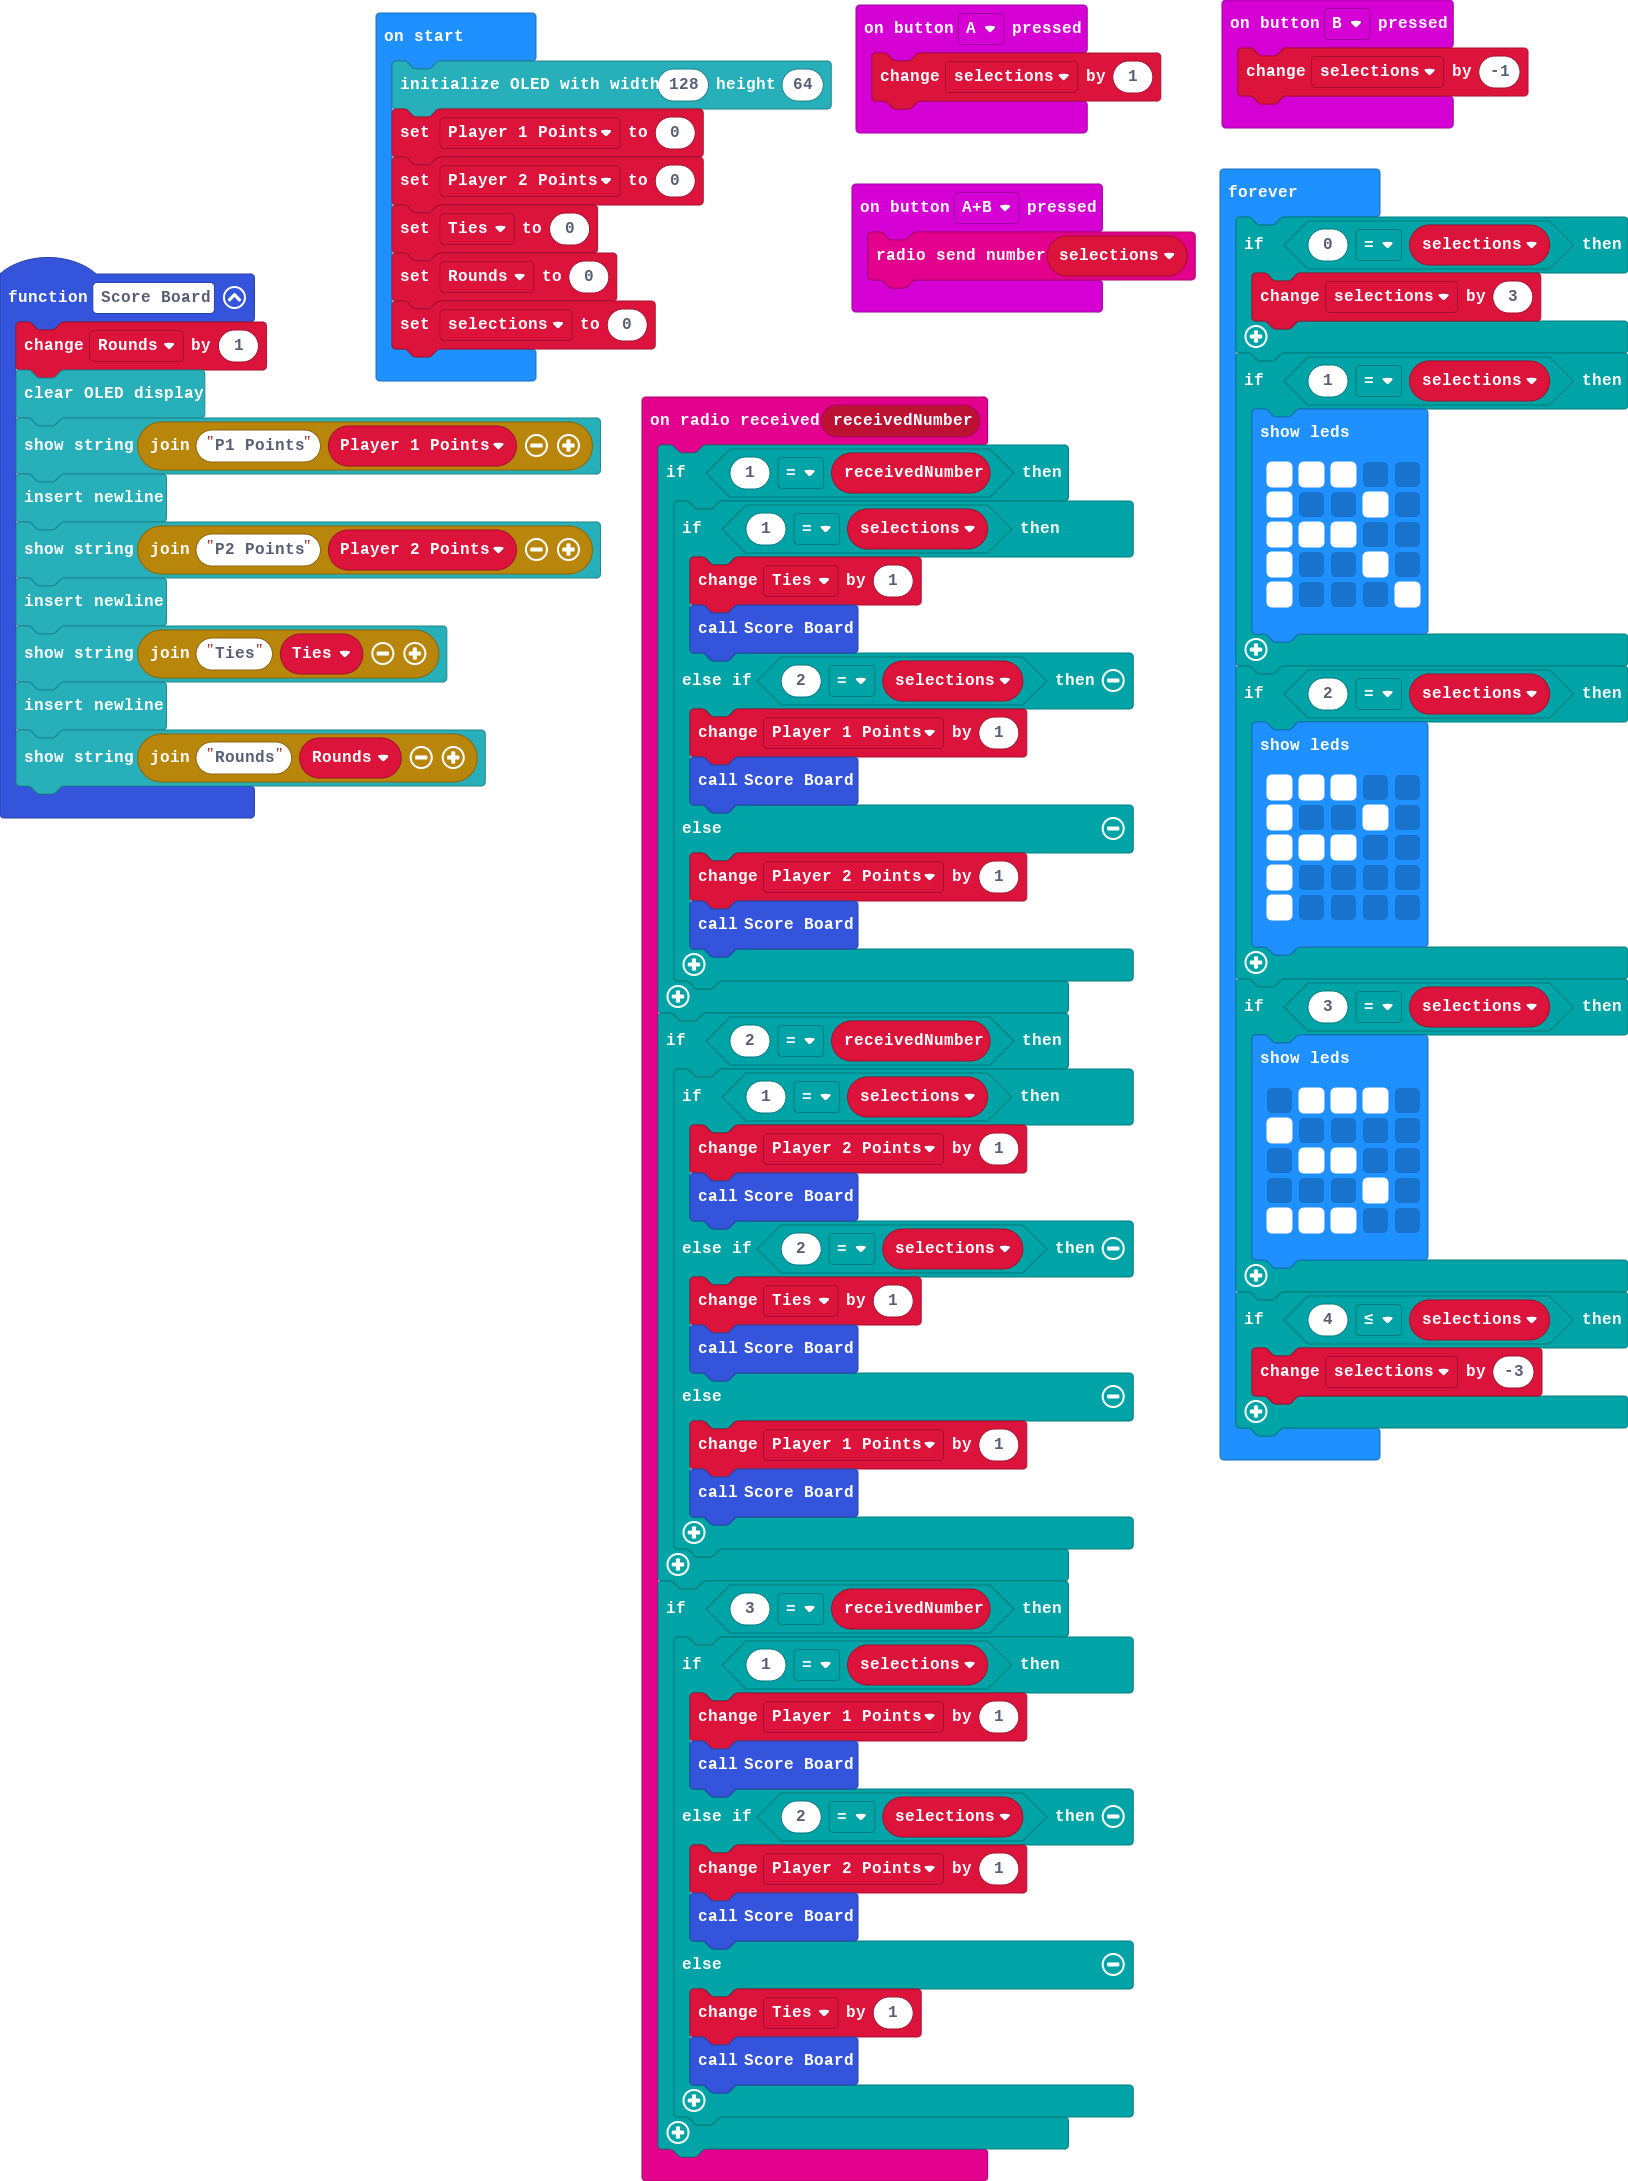
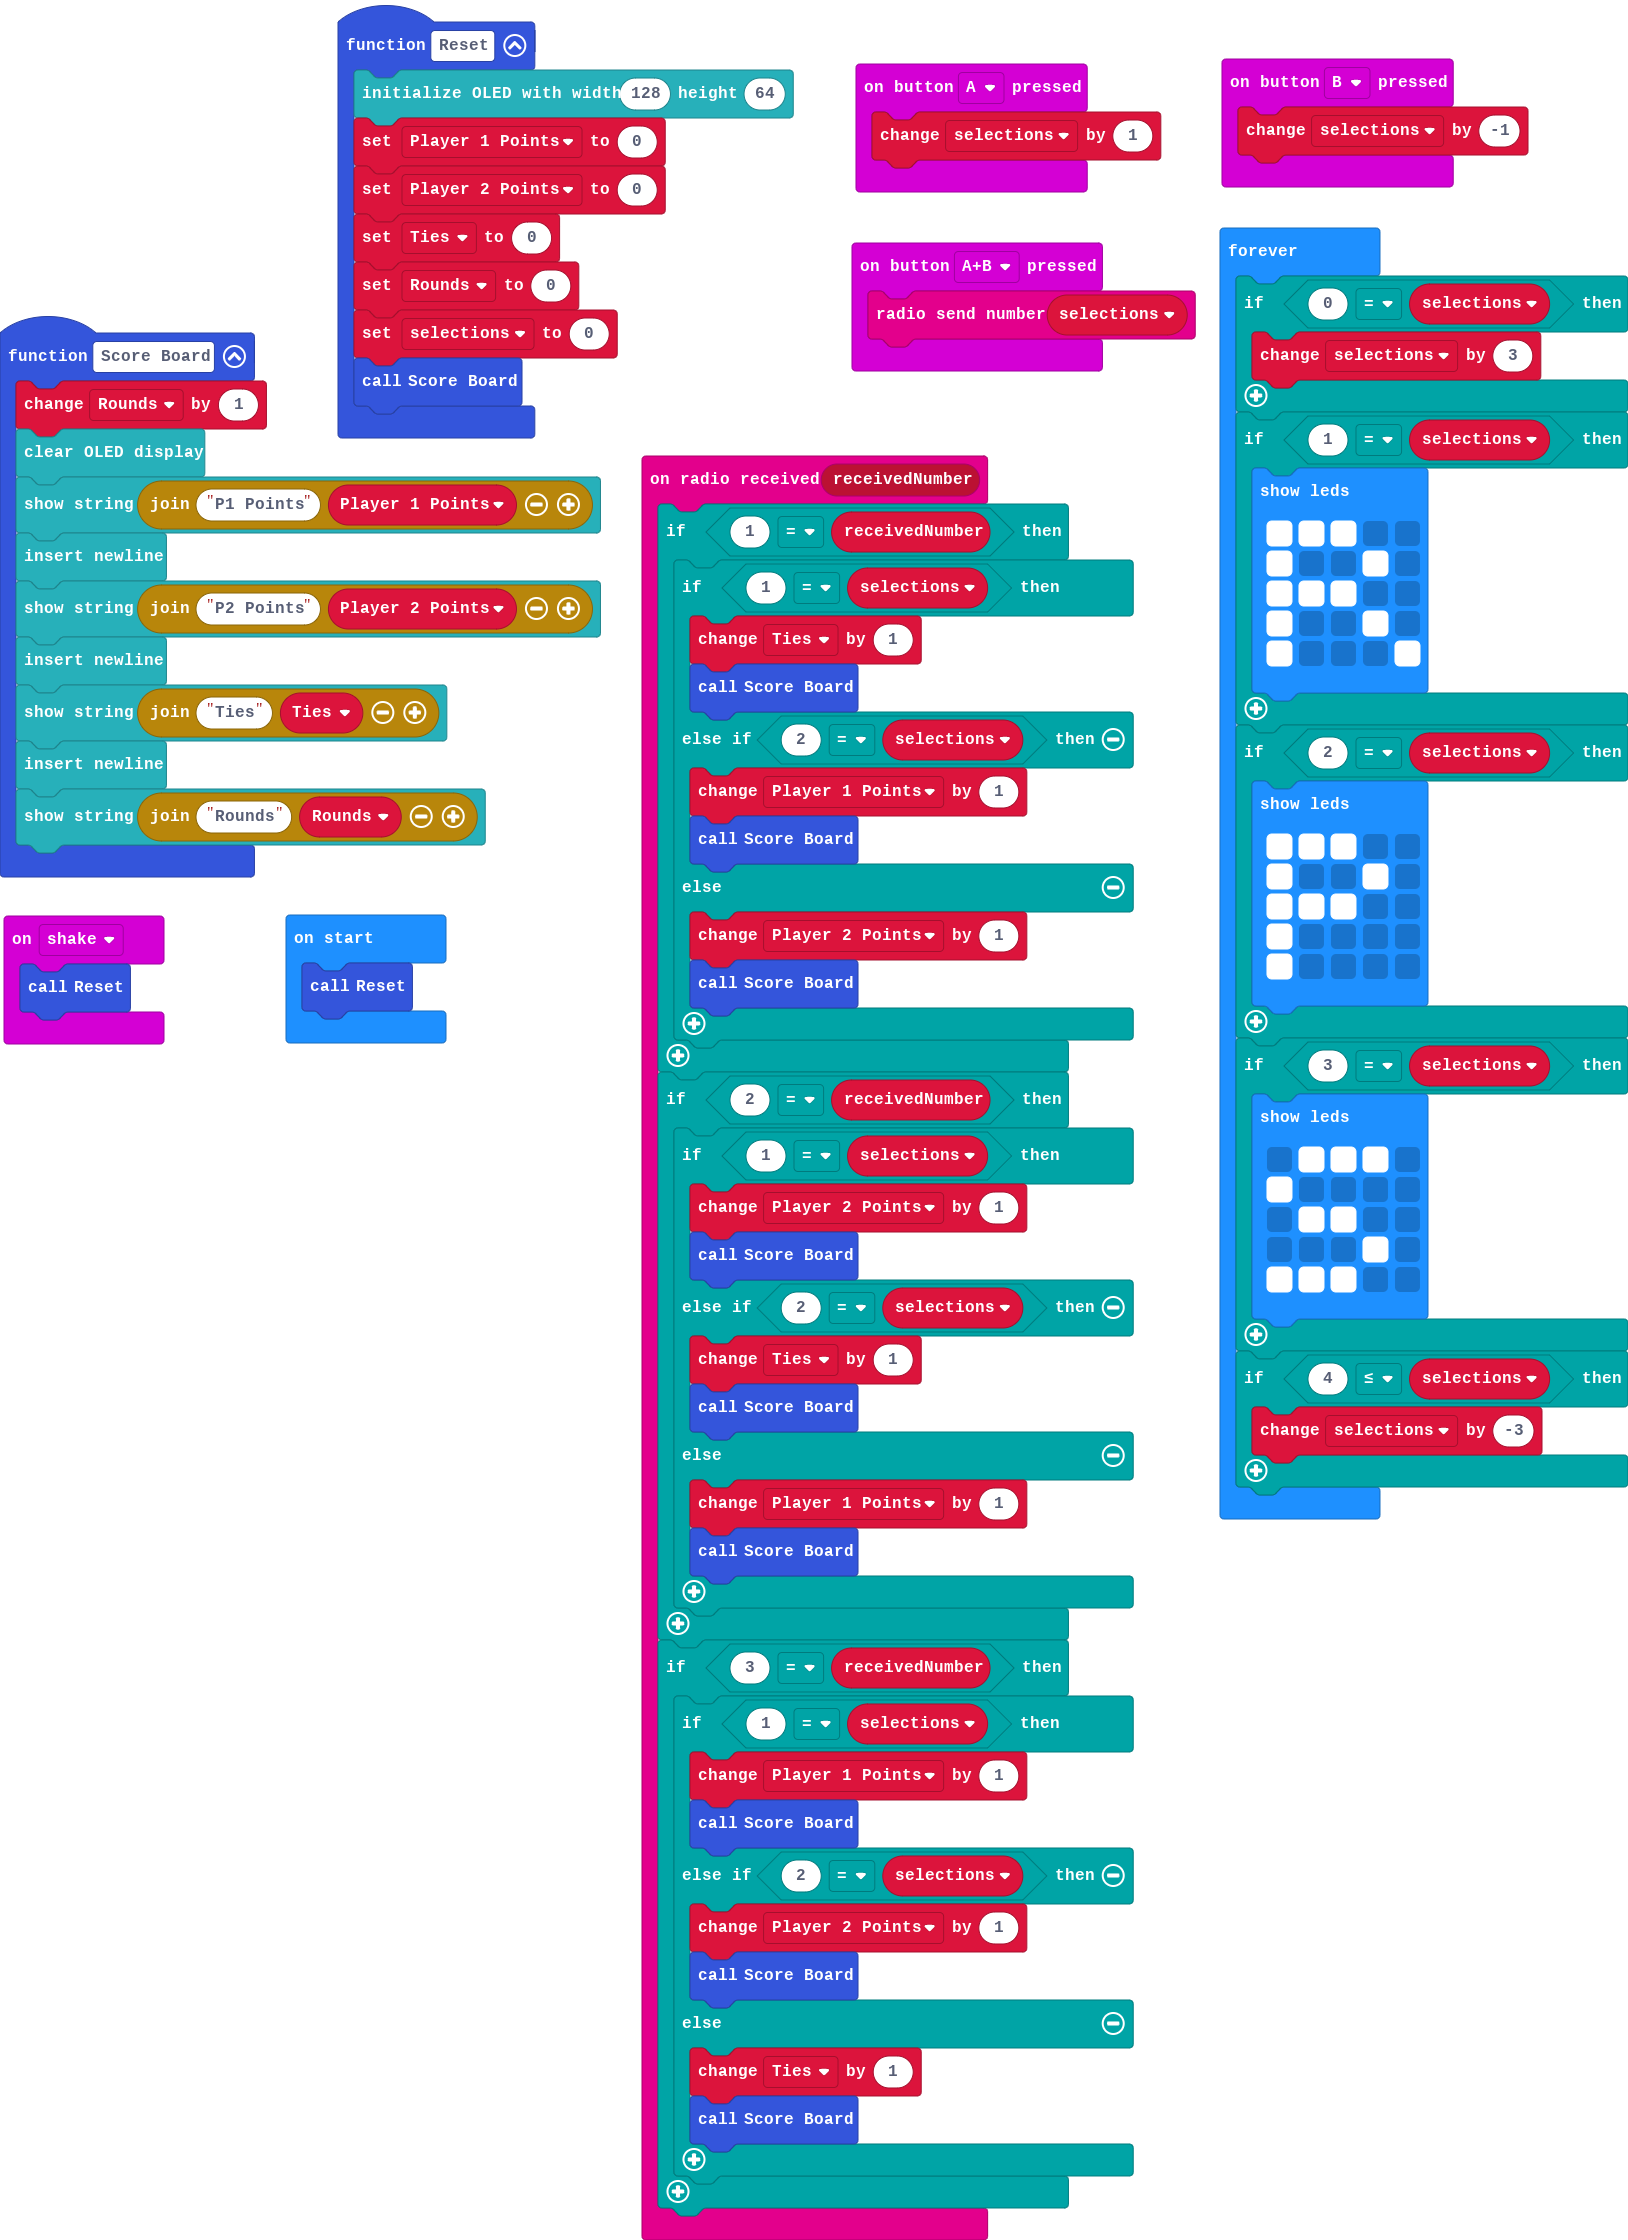
Update main.blocks, main.ts

diff --git a/main.ts b/main.ts
@@ -56,17 +56,24 @@ input.onButtonPressed(Button.AB, function () {
 input.onButtonPressed(Button.B, function () {
     selections += -1
 })
-let selections = 0
+input.onGesture(Gesture.Shake, function () {
+    Reset()
+})
+function Reset () {
+    OLED.init(128, 64)
+    Player_1_Points = 0
+    Player_2_Points = 0
+    Ties = 0
+    Rounds = 0
+    selections = 0
+    Score_Board()
+}
 let Rounds = 0
-let Ties = 0
 let Player_2_Points = 0
 let Player_1_Points = 0
-OLED.init(128, 64)
-Player_1_Points = 0
-Player_2_Points = 0
-Ties = 0
-Rounds = 0
-selections = 0
+let Ties = 0
+let selections = 0
+Reset()
 basic.forever(function () {
     if (0 == selections) {
         selections += 3
